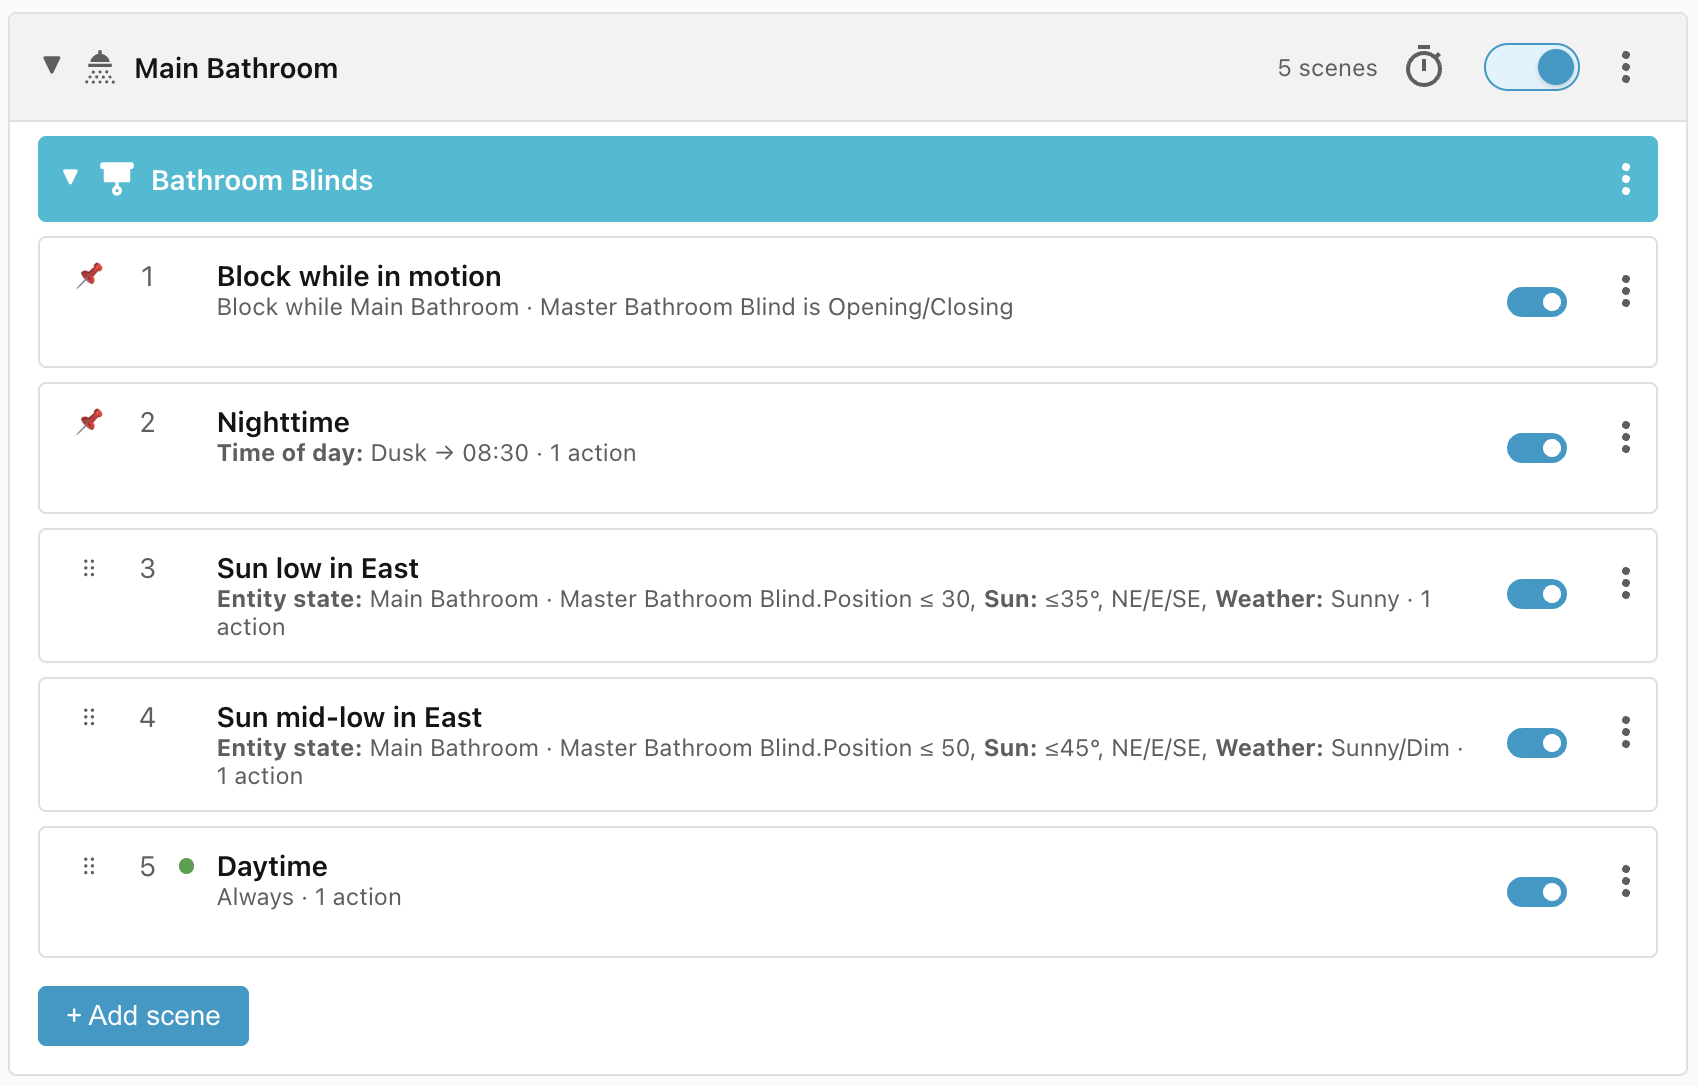
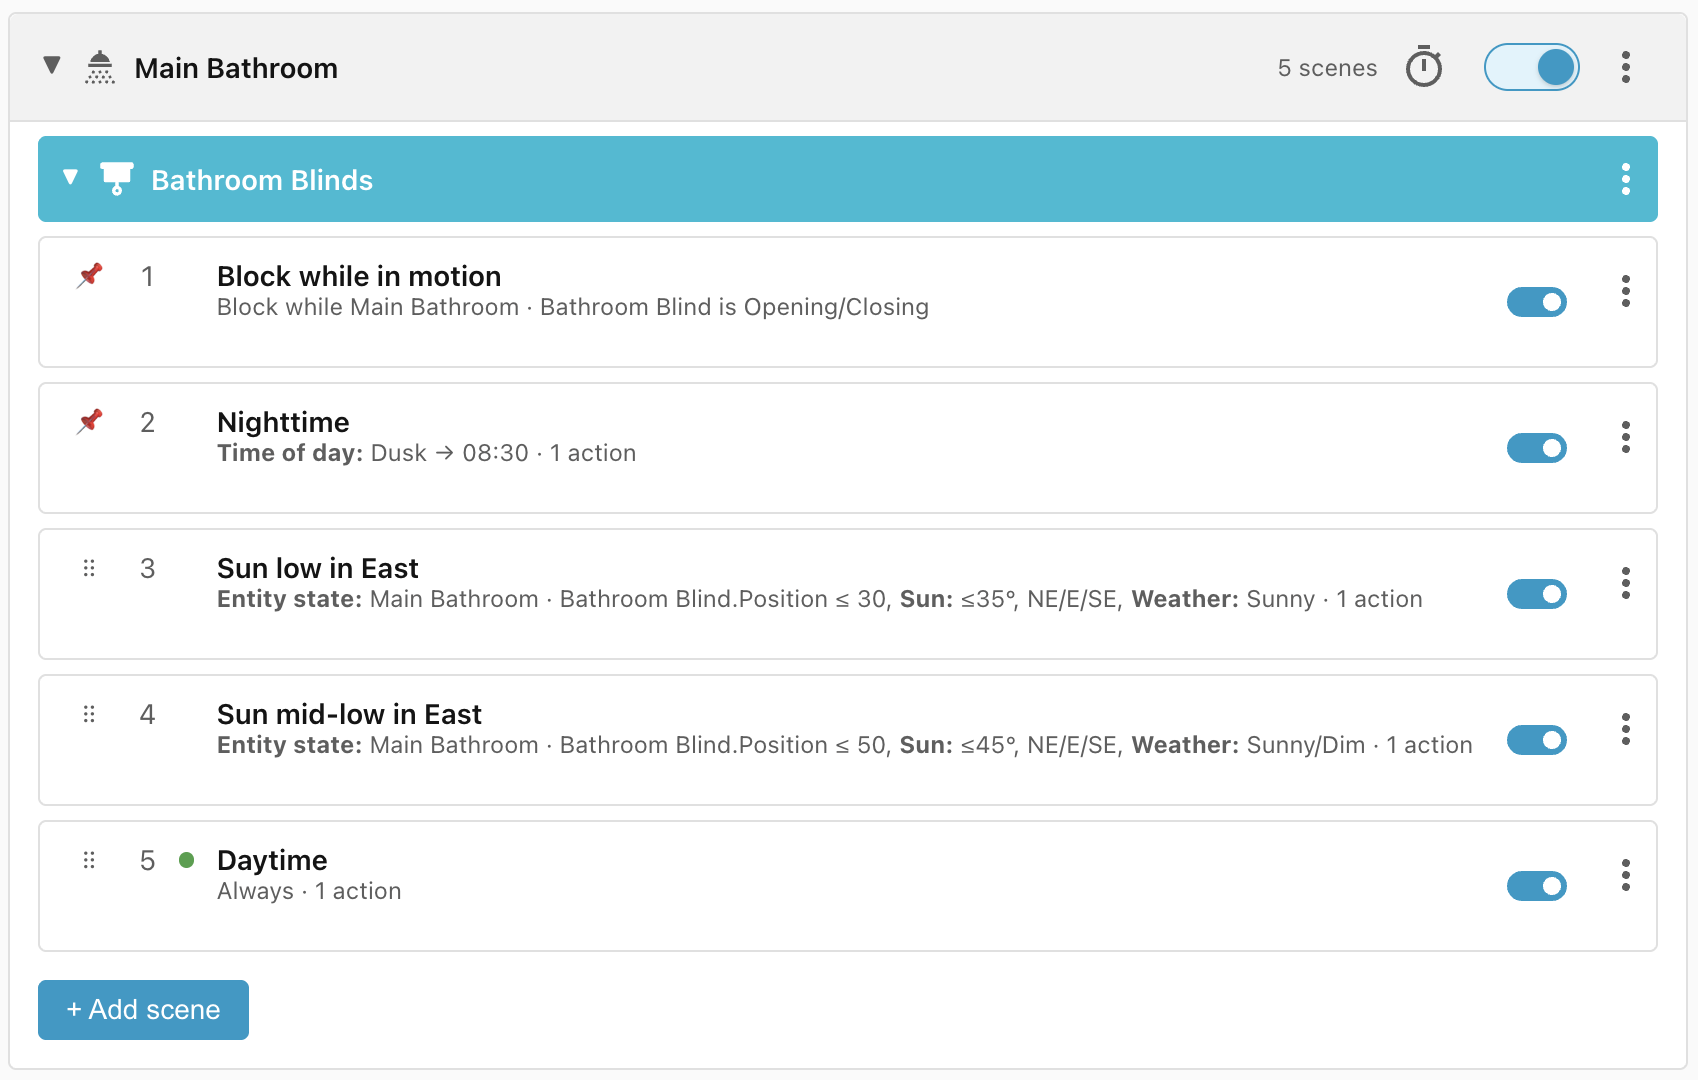
docs: update bathroom blind recipe screenshots and text
Refresh all five screenshots (entity renamed Master Bathroom Blind ->
Bathroom Blind; Sun low in East now ordered above Sun mid-low). Retitle the
page 'Bathroom blind', add a Requirements section, remove a stray image
placeholder, and correct two remaining 30% (was 35%) references to match the
scenes and lifecycle table.

diff --git a/docs/recipes/bathroom/blind.md b/docs/recipes/bathroom/blind.md
@@ -1,4 +1,4 @@
-# Blind
+# Bathroom blind
 
 This recipe describes the lifecycle of the window blind in the bathroom. I want
 the blind to be open between 8:30 am and dusk and closed between dusk and 8:30
@@ -9,9 +9,14 @@ blinding, so I want the blind to open gradually, especially when it is sunny.
 However, if I decide to open the blind manually before time, then I don't want
 Ambience to close the blind automatically again.
 
+## Requirements
+
+- **Bathroom blind** - Cover entity exposing the current position of the blind.
+
 ## Scene: Nighttime
 
-The clearest scene is that the blind should be shut between dusk and 8:30 am:
+The clearest condition is the **Nighttime** scene where the blind should be
+closed between dusk and 8:30 am:
 
 ![Nighttime.](../images/bathroom/blind/nighttime.png "Nighttime.")
 
@@ -23,13 +28,15 @@ The clearest scene is that the blind should be shut between dusk and 8:30 am:
 
 ## Scene: Daytime
 
-The second scene is that the blind should be open between 8:30 am and dusk.
+The second scene specifies that the blind should be open between 8:30 am and
+dusk.
 
 ![Daytime.](../images/bathroom/blind/daytime.png "Daytime.")
 
 Note that the **Daytime** scene doesn't specify a time-of-day. That's because we
 know that if the **Nighttime** scene (which only matches between dusk and 8:30
-am) doesn't match, then we are guaranteed to be in the daytime range.
+am) doesn't match, then any scenes after that are guaranteed to be in the
+daytime range.
 
 ## Scenes: Sun low in East, Sun mid-low in East
 
@@ -60,7 +67,7 @@ weather is sunny or dim, and if the weather is **dark** then neither matches.
 ## Problem: Don't override manual opening
 
 If somebody opens the blind manually then we don't want either scene to match,
-otherwise Ambience would immediately close the blind to 35% or 50% again. To
+otherwise Ambience would immediately close the blind to 30% or 50% again. To
 accomplish this we add an **entity state** condition to check that the blind
 position is lower than the position we're about to open to (i.e. 30% or 50%).
 
@@ -74,8 +81,8 @@ daytime scenes, so we manually move it to the highest priority.
 ## Problem: Opening the blind triggers reevaluation
 
 Because we check the blind position in **Sun low/mid-low in East**, if we were
-to open the blind manually, then it would trigger reevaluation of the scenes and
-potentially stop opening at 35% or 50%. To avoid this we can add a scene that
+to open the blind manually then it would trigger reevaluation of the scenes and
+potentially stop opening at 30% or 50%. To avoid this we can add a scene that
 blocks evaluation while the blind is opening or closing:
 
 ![Block evaluation while blind in motion.](../images/bathroom/blind/block.png "Block evaluation while blind in motion.")
